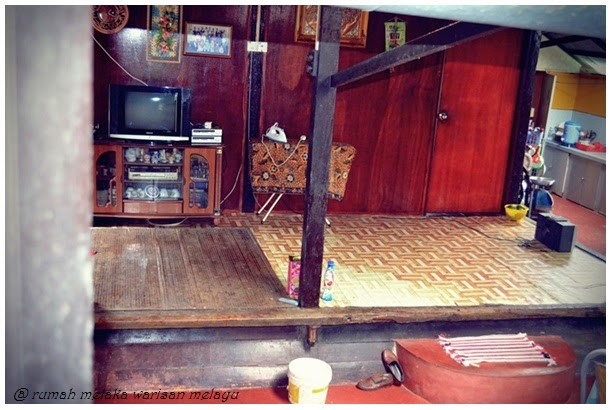
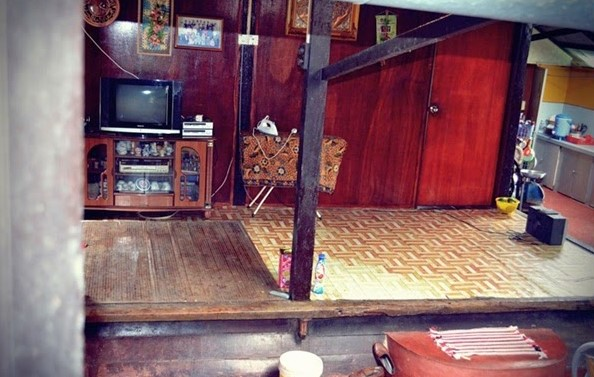
Done

diff --git a/src/assets/index.js b/src/assets/index.js
@@ -10,7 +10,7 @@ export {default as architecture2} from './Architecture2.png'
 export {default as architecture3} from './Architecture3.png'
 export {default as architecture4} from './Architecture4.png'
 export {default as architecture5} from './Architecture5.png'
-export {default as rumahibu} from './rumahIbu.png'
+export {default as rumahibu} from './rumahIbu.jpg'
 export {default as theFoyer} from './theFoyer.png'
 export {default as theFoyerbtm} from './theFoyerbtm.png'
 export {default as thePillar} from './thePillar.png'
